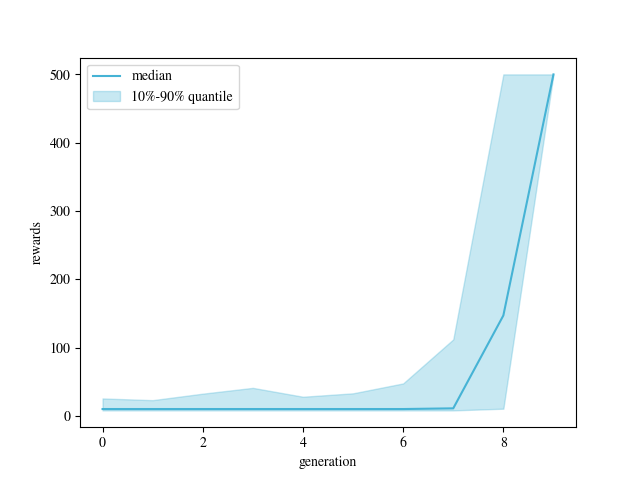
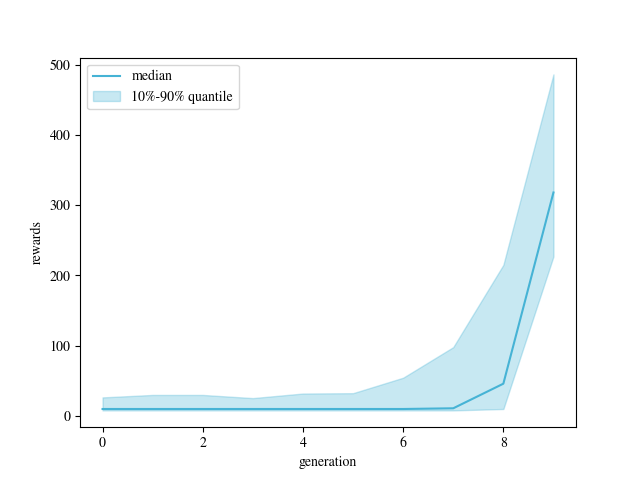
Adding Acrobot, Mountain Car, Mountain Car Continues, Pendulum

diff --git a/experiments/MountainCarContinuous/MountainCarContinuous_raw.py b/experiments/MountainCarContinuous/MountainCarContinuous_raw.py
@@ -2,14 +2,52 @@
 import torch
 import numpy as np
 from diffevo import DDIMScheduler, BayesianGenerator
-from tqdm import tqdm
-import os 
 
-from experiments.MountainCarContinuous.MountainCarContinuous_latent import compute_rewards_list
+from models import ControllerMLP, ContinuousController
+import matplotlib.pyplot as plt
+
+import gym
+from tqdm import tqdm
+import os
+
 
 import matplotlib
 matplotlib.rcParams['mathtext.fontset'] = 'stix'
 matplotlib.rcParams['font.family'] = 'STIXGeneral'
+
+def compute_rewards(dim_in, dim_out, dim_hidden, param, n_hidden_layers=1):
+    env = gym.make("MountainCarContinuous-v0", render_mode='rgb_array')
+
+    model = ControllerMLP.from_parameter(dim_in, dim_out, dim_hidden, param, n_hidden_layers=n_hidden_layers)
+    controller = ContinuousController(model, env.action_space)
+
+    observation, info = env.reset(seed=42)
+    total_reward = 0
+    observations = []
+
+    for i in range(200):
+        action = controller(torch.from_numpy(observation).float())
+        observation, reward, terminated, truncated, info = env.step([action])
+        observations.append(observation)
+
+        total_reward += reward
+
+        if terminated or truncated:
+            observation, info = env.reset()
+            break
+
+    env.close()
+    return total_reward, torch.from_numpy(np.stack(observations)).float()
+
+def compute_rewards_list(dim_in, dim_out, dim_hidden, params, n_hidden_layers=1):
+    rewards = []
+    observations = []
+    for p in params:
+        reward, obs = compute_rewards(dim_in, dim_out, dim_hidden, p, n_hidden_layers=n_hidden_layers)
+        rewards.append(reward)
+        observations.append(obs)
+    return torch.Tensor(rewards), observations
+
 
 
 def experiment(num_step, T=1, population_size=512, scaling=0.1, noise=1, weight_decay=0):
@@ -35,7 +73,7 @@ def experiment(num_step, T=1, population_size=512, scaling=0.1, noise=1, weight_
         x0_population.append(x0 * scaling)
         observations.append(obs)
     
-    rewards, obs = compute_rewards_list(2, 3, 8, x * scaling)
+    rewards, obs = compute_rewards_list(2, 1, 8, x * scaling)
     reward_history.append(rewards)
     observations.append(obs)
 

diff --git a/experiments/Pendulum/pendulum_latent.py b/experiments/Pendulum/pendulum_latent.py
@@ -1,4 +1,4 @@
-from models import ControllerMLP, DiscreteController
+from models import ControllerMLP, ContinuousController
 import torch
 import numpy as np
 import matplotlib.pyplot as plt
@@ -16,7 +16,7 @@ def compute_rewards(dim_in, dim_out, dim_hidden, param, n_hidden_layers=1):
     env = gym.make("Pendulum-v1", render_mode='rgb_array')
 
     model = ControllerMLP.from_parameter(dim_in, dim_out, dim_hidden, param, n_hidden_layers=n_hidden_layers)
-    controller = DiscreteController(model, env.action_space)
+    controller = ContinuousController(model, env.action_space)
 
     observation, info = env.reset(seed=42)
     total_reward = 0
@@ -56,7 +56,7 @@ def experiment(num_step, T=1, population_size=512, scaling=0.1, noise=1, weight_
     x0_population = [x * scaling]
     observations = []
 
-    random_map = RandomProjection(58, 2, normalize=True)
+    random_map = RandomProjection(41, 2, normalize=True)
 
     for t, alpha in tqdm(scheduler, total=scheduler.num_step-1):
         rewards, obs = compute_rewards_list(3, 1, 8, x * scaling)
@@ -106,7 +106,7 @@ def make_video(para):
     env = gym.wrappers.RecordVideo(env=env, video_folder="./figures/", name_prefix="test-video", episode_trigger=lambda x: x % 2 == 0)
 
     model = ControllerMLP.from_parameter(3, 1, 8, para)
-    controller = DiscreteController(model, env.action_space)
+    controller = ContinuousController(model, env.action_space)
 
     observation, info = env.reset(seed=42)
     rewards = []
@@ -133,7 +133,7 @@ def make_video(para):
 if __name__ == '__main__':
     torch.manual_seed(42)
     np.random.seed(42)
-    os.makedirs("./data/raw", exist_ok=True)
+    os.makedirs("./data/latent", exist_ok=True)
     os.makedirs("./figures", exist_ok=True)
 
     num_experiment = 10

diff --git a/experiments/MountainCarContinuous/MountainCarContinuous_latent.py b/experiments/MountainCarContinuous/MountainCarContinuous_latent.py
@@ -1,4 +1,4 @@
-from models import ControllerMLP, DiscreteController, ContinuousController
+from models import ControllerMLP, ContinuousController
 import torch
 import numpy as np
 import matplotlib.pyplot as plt
@@ -24,7 +24,7 @@ def compute_rewards(dim_in, dim_out, dim_hidden, param, n_hidden_layers=1):
 
     for i in range(200):
         action = controller(torch.from_numpy(observation).float())
-        observation, reward, terminated, truncated, info = env.step([action])
+        observation, reward, terminated, truncated, info = env.step(action)
         observations.append(observation)
 
         total_reward += reward
@@ -117,7 +117,7 @@ def make_video(para):
 
     for i in range(500):
         action = controller(torch.from_numpy(observation).float())
-        observation, reward, terminated, truncated, info = env.step([action])
+        observation, reward, terminated, truncated, info = env.step(action)
         rewards.append(reward)
 
         if len(info) > 0:

diff --git a/experiments/runAll.py b/experiments/runAll.py
@@ -1,0 +1,34 @@
+import os
+
+experiments_dir = [
+      "MountainCarContinuous",
+      # "MountainCar",
+      "Pendulum",
+      # "cart_pole",
+      # "Acrobot",
+      # "LunarLander",
+      # "BipedalWalker",
+]
+
+keyWords = [
+      "cmaes",
+      "large",
+      "latent",
+      "raw",   
+]
+
+# get the current working directory
+cwd = os.getcwd()
+
+for experiment in experiments_dir:
+   # change the directory to the experiment
+   os.chdir(os.path.join(cwd, experiment))
+   # list of files in the experiment directory
+   files = os.listdir()
+   # iterate over the files in the experiment directory
+   for file in files:
+      # check if the file is a python file and contains the keyword
+      if file.endswith(".py") and any(keyword in file for keyword in keyWords):
+         # run the python file
+         os.system(f"python {file}")
+         

diff --git a/experiments/MountainCarContinuous/MountainCarContinuous_large.py b/experiments/MountainCarContinuous/MountainCarContinuous_large.py
@@ -15,14 +15,14 @@ matplotlib.rcParams['font.family'] = 'STIXGeneral'
 def experiment(num_step, T=1, population_size=512, scaling=0.1, noise=1, weight_decay=0):
     scheduler = DDIMSchedulerCosine(num_step=num_step)
 
-    x = torch.randn(population_size, 17410)
+    x = torch.randn(population_size, 17025)
 
     reward_history = []
     population = [x * scaling]
     x0_population = [x * scaling]
     observations = []
 
-    random_map = RandomProjection(17410, 2, normalize=True)
+    random_map = RandomProjection(17025, 2, normalize=True)
 
     for t, alpha in tqdm(scheduler, total=scheduler.num_step-1):
         rewards, obs = compute_rewards_list(2, 1, 128, x * scaling, n_hidden_layers=2)

diff --git a/experiments/Pendulum/pendulum_large.py b/experiments/Pendulum/pendulum_large.py
@@ -15,14 +15,14 @@ matplotlib.rcParams['font.family'] = 'STIXGeneral'
 def experiment(num_step, T=1, population_size=512, scaling=0.1, noise=1, weight_decay=0):
     scheduler = DDIMSchedulerCosine(num_step=num_step)
 
-    x = torch.randn(population_size, 17410)
+    x = torch.randn(population_size, 17153)
 
     reward_history = []
     population = [x * scaling]
     x0_population = [x * scaling]
     observations = []
 
-    random_map = RandomProjection(17410, 2, normalize=True)
+    random_map = RandomProjection(17153, 2, normalize=True)
 
     for t, alpha in tqdm(scheduler, total=scheduler.num_step-1):
         rewards, obs = compute_rewards_list(3, 1, 128, x * scaling, n_hidden_layers=2)

diff --git a/experiments/MountainCar/MountainCar_cmaes.py b/experiments/MountainCar/MountainCar_cmaes.py
@@ -13,7 +13,7 @@ matplotlib.rcParams['font.family'] = 'STIXGeneral'
 
 
 def experiment(num_step, T=1, population_size=256, scaling=100, weight_decay=0, sigma_init=1, **args):
-    es = CMAES(num_params=41, popsize=population_size, weight_decay=weight_decay, sigma_init=sigma_init, inopts={'seed': np.nan, 'CMA_elitist': 2})
+    es = CMAES(num_params=51, popsize=population_size, weight_decay=weight_decay, sigma_init=sigma_init, inopts={'seed': np.nan, 'CMA_elitist': 2})
 
     population = []
     reward_history = []

diff --git a/experiments/MountainCarContinuous/MountainCarContinuous_cmaes.py b/experiments/MountainCarContinuous/MountainCarContinuous_cmaes.py
@@ -13,7 +13,7 @@ matplotlib.rcParams['font.family'] = 'STIXGeneral'
 
 
 def experiment(num_step, T=1, population_size=256, scaling=100, weight_decay=0, sigma_init=1, **args):
-    es = CMAES(num_params=41, popsize=population_size, weight_decay=weight_decay, sigma_init=sigma_init, inopts={'seed': np.nan, 'CMA_elitist': 2})
+    es = CMAES(num_params=51, popsize=population_size, weight_decay=weight_decay, sigma_init=sigma_init, inopts={'seed': np.nan, 'CMA_elitist': 2})
 
     population = []
     reward_history = []

diff --git a/experiments/MountainCarContinuous/models.py b/experiments/MountainCarContinuous/models.py
@@ -53,10 +53,11 @@ class DiscreteController:
             return torch.argmax(logits).item()
 
 class ContinuousController:
-    def __init__(self, model, action_space):
+    def __init__(self, model, action_space, factor=1):
         self.model = model
         self.action_space = action_space
+        self.factor = factor
     
     def __call__(self, x):
         with torch.no_grad():
-            return torch.tanh(self.model(x)).squeeze(0)
+            return torch.tanh(self.model(x)).squeeze(0) * self.factor

diff --git a/experiments/Pendulum/models.py b/experiments/Pendulum/models.py
@@ -51,3 +51,12 @@ class DiscreteController:
         with torch.no_grad():
             logits = self.model(x)
             return torch.argmax(logits).item()
+class ContinuousController:
+    def __init__(self, model, action_space, factor=1):
+        self.model = model
+        self.action_space = action_space
+        self.factor = factor
+    
+    def __call__(self, x):
+        with torch.no_grad():
+            return torch.tanh(self.model(x)).squeeze(0) * self.factor

diff --git a/experiments/Acrobot/acrobot_large.py b/experiments/Acrobot/acrobot_large.py
@@ -5,7 +5,7 @@ from diffevo import LatentBayesianGenerator, RandomProjection, DDIMSchedulerCosi
 from tqdm import tqdm
 import os
 
-from acrobat_latent import compute_rewards_list
+from experiments.Acrobot.acrobot_latent import compute_rewards_list
 
 import matplotlib
 matplotlib.rcParams['mathtext.fontset'] = 'stix'

diff --git a/experiments/MountainCar/MountainCar_latent.py b/experiments/MountainCar/MountainCar_latent.py
@@ -144,7 +144,7 @@ if __name__ == '__main__':
         x, reward_history, population, x0_population, observations, random_map = experiment(
             num_step=10, 
             population_size=256, 
-            T=10, 
+            T=1, 
             scaling=100, 
             noise=1)
         
